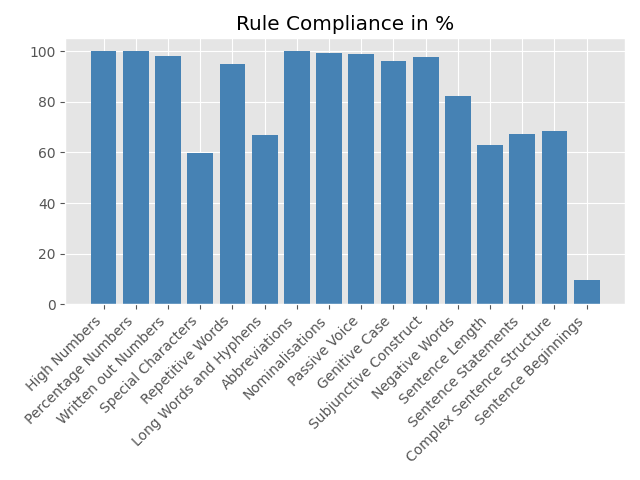
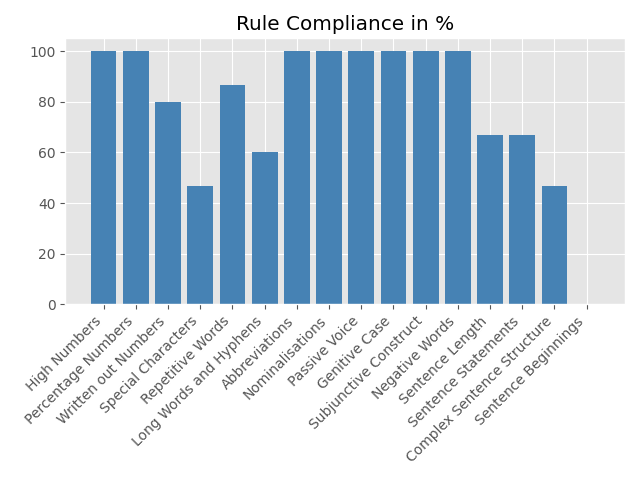
Trying to find bug

diff --git a/model/SentenceLevelResults.py b/model/SentenceLevelResults.py
@@ -62,8 +62,7 @@ class SentenceLevelResults:
                         easy_language_rules[5][i], easy_language_rules[6][i], easy_language_rules[7][i],
                         easy_language_rules[8][i], easy_language_rules[9][i], easy_language_rules[10][i],
                         easy_language_rules[11][i], easy_language_rules[12][i], easy_language_rules[13][i],
-                        easy_language_rules[14][i], easy_language_rules[15][i], easy_language_rules[16][i],
-                            easy_language_rules[17][i]]
+                        easy_language_rules[14][i], easy_language_rules[15][i], easy_language_rules[16][i]]
             df_sentence_level_results.loc[i] = new_data_row
         temp_df = df_sentence_level_results.iloc[:, [7, 8, 9, 10, 11, 14, 15, 16, 17, 18, 19, 20, 21, 22, 23, 24]]
         number_of_all_rules = len(temp_df.columns)
